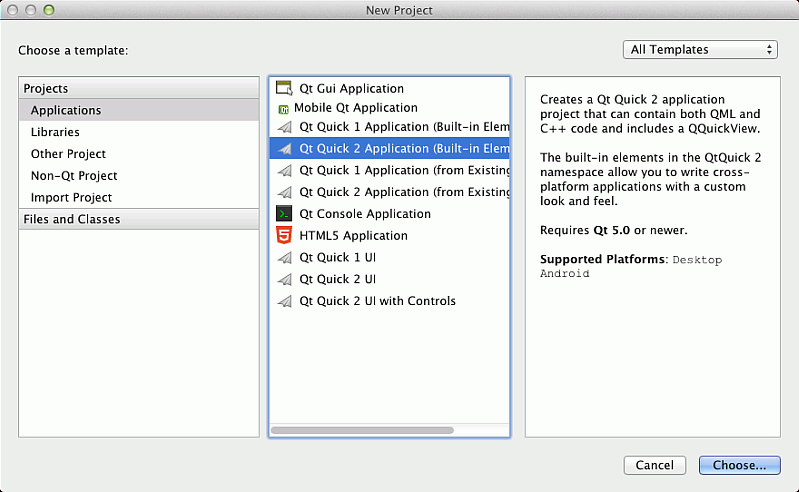
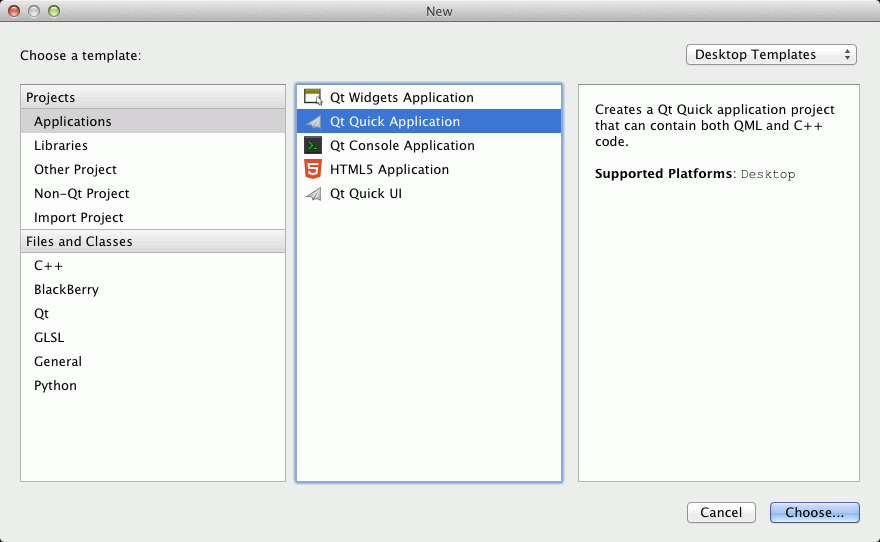
Docs for qmlscatter updated
Task-number: QTRD-2626

diff --git a/qtdatavis3d/examples/qmlscatter/qml/qmlscatter/main.qml b/qtdatavis3d/examples/qmlscatter/qml/qmlscatter/main.qml
@@ -80,22 +80,28 @@ Item {
             //! [5]
             Scatter3DSeries {
                 id: scatterSeries
+                //! [5]
+                //! [10]
                 itemLabelFormat: "Series 1: X:@xLabel Y:@yLabel Z:@zLabel"
+                //! [10]
 
+                //! [11]
                 ItemModelScatterDataProxy {
                     itemModel: seriesOneData.model
                     xPosRole: "xPos"
                     yPosRole: "yPos"
                     zPosRole: "zPos"
                 }
+                //! [11]
             }
 
-            //! [5]
+            //! [12]
             Scatter3DSeries {
                 id: scatterSeriesTwo
                 itemLabelFormat: "Series 2: X:@xLabel Y:@yLabel Z:@zLabel"
                 itemSize: 0.1
                 mesh: Abstract3DSeries.MeshCube
+                //! [12]
 
                 ItemModelScatterDataProxy {
                     itemModel: seriesTwoData.modelTwo

diff --git a/qtdatavis3d/examples/qmlscatter/qml/qmlscatter/data.qml b/qtdatavis3d/examples/qmlscatter/qml/qmlscatter/data.qml
@@ -20,11 +20,11 @@ import QtQuick 2.1
 import QtDataVisualization 1.0
 
 Item {
-    //! [3]
+    //! [1]
     property alias model: dataModel
-    //! [3]
     property alias modelTwo: dataModelTwo
     property alias modelThree: dataModelThree
+    //! [1]
 
     //! [0]
     ListModel {
